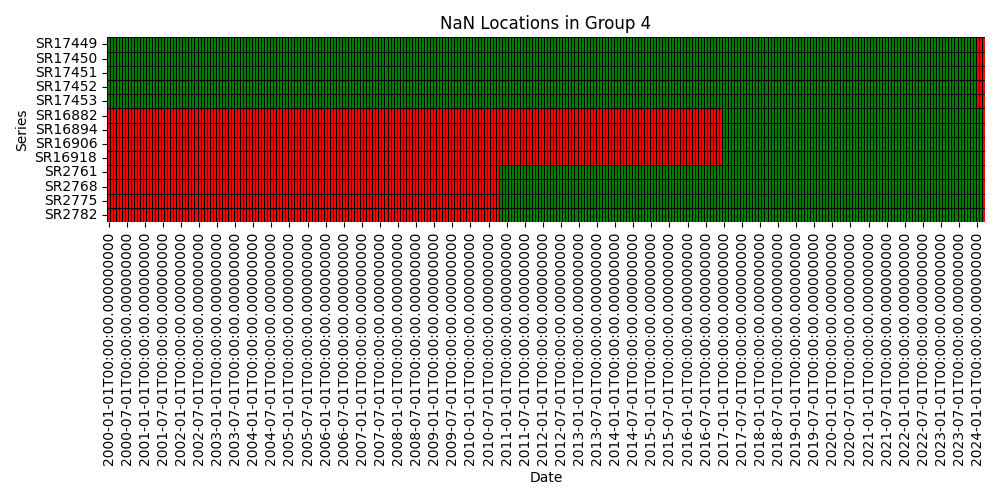
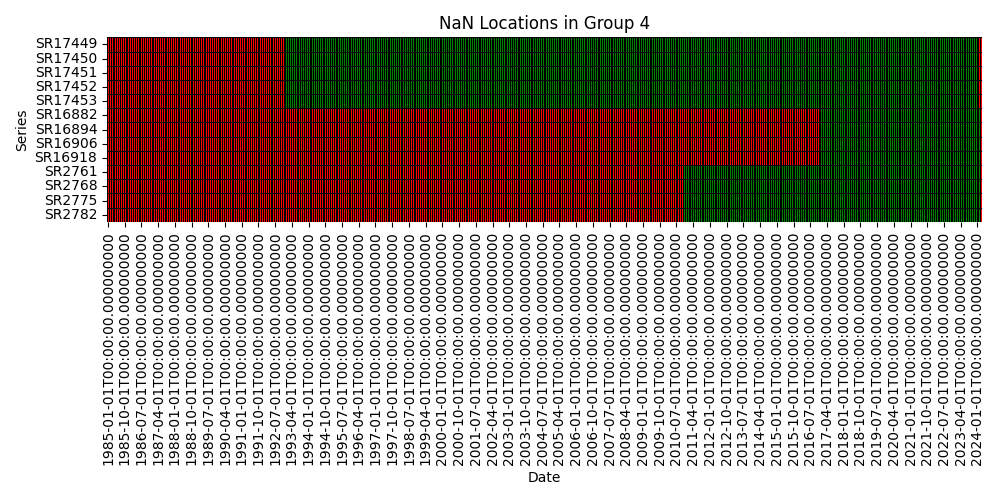
plots from 85

diff --git a/src/main.py b/src/main.py
@@ -15,7 +15,7 @@ if __name__ == "__main__":
         .pipe(save) # Save raw csv
         .pipe(set_date_index) # Turn the date column into the index of the df
         .pipe(filter_dates_with_day_01)
-        .pipe(slice_df_from_date, start_date='2000-01-01') # Get only data starting in 2000
+        .pipe(slice_df_from_date, start_date='1985-01-01') # Get only data starting in 2000
         #.pipe(stationarize_df, ['SP74663', 'SF4782']) #Stationarize selected columns
         #.pipe(remove_outliers, ['SP74663', 'SF4782']) # Remove outliers
         #.pipe(apply_transformations) 
